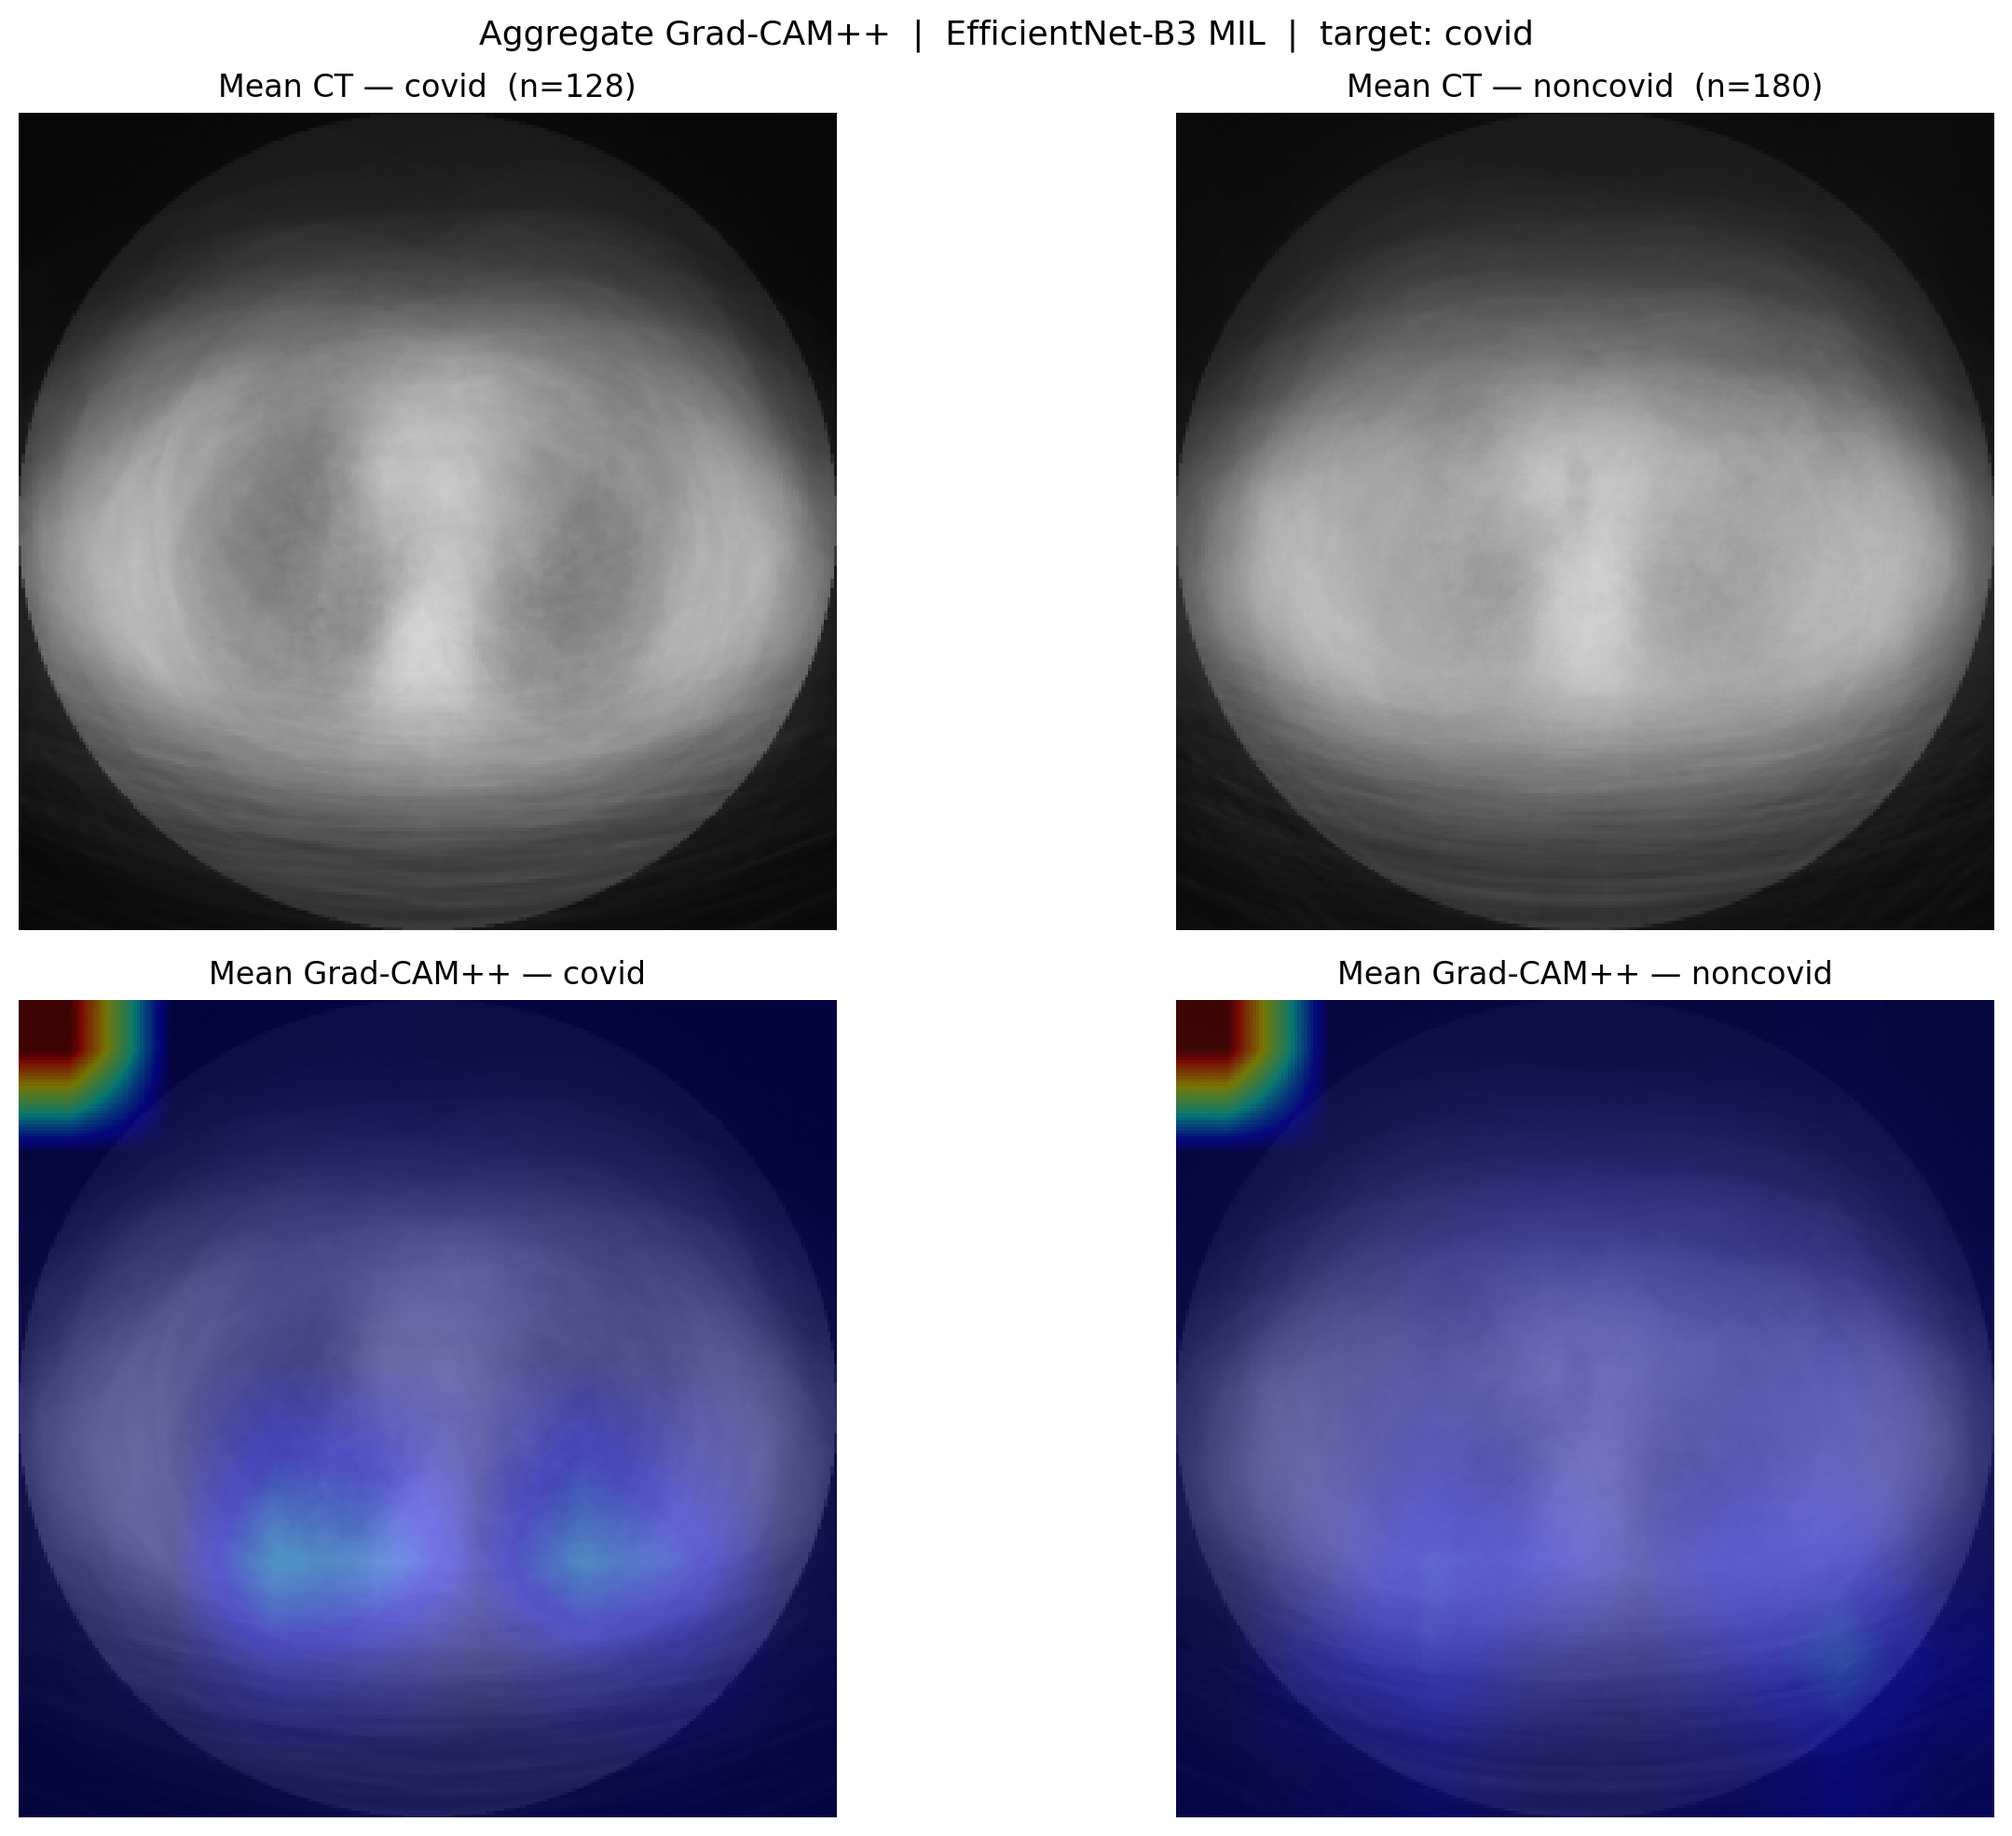
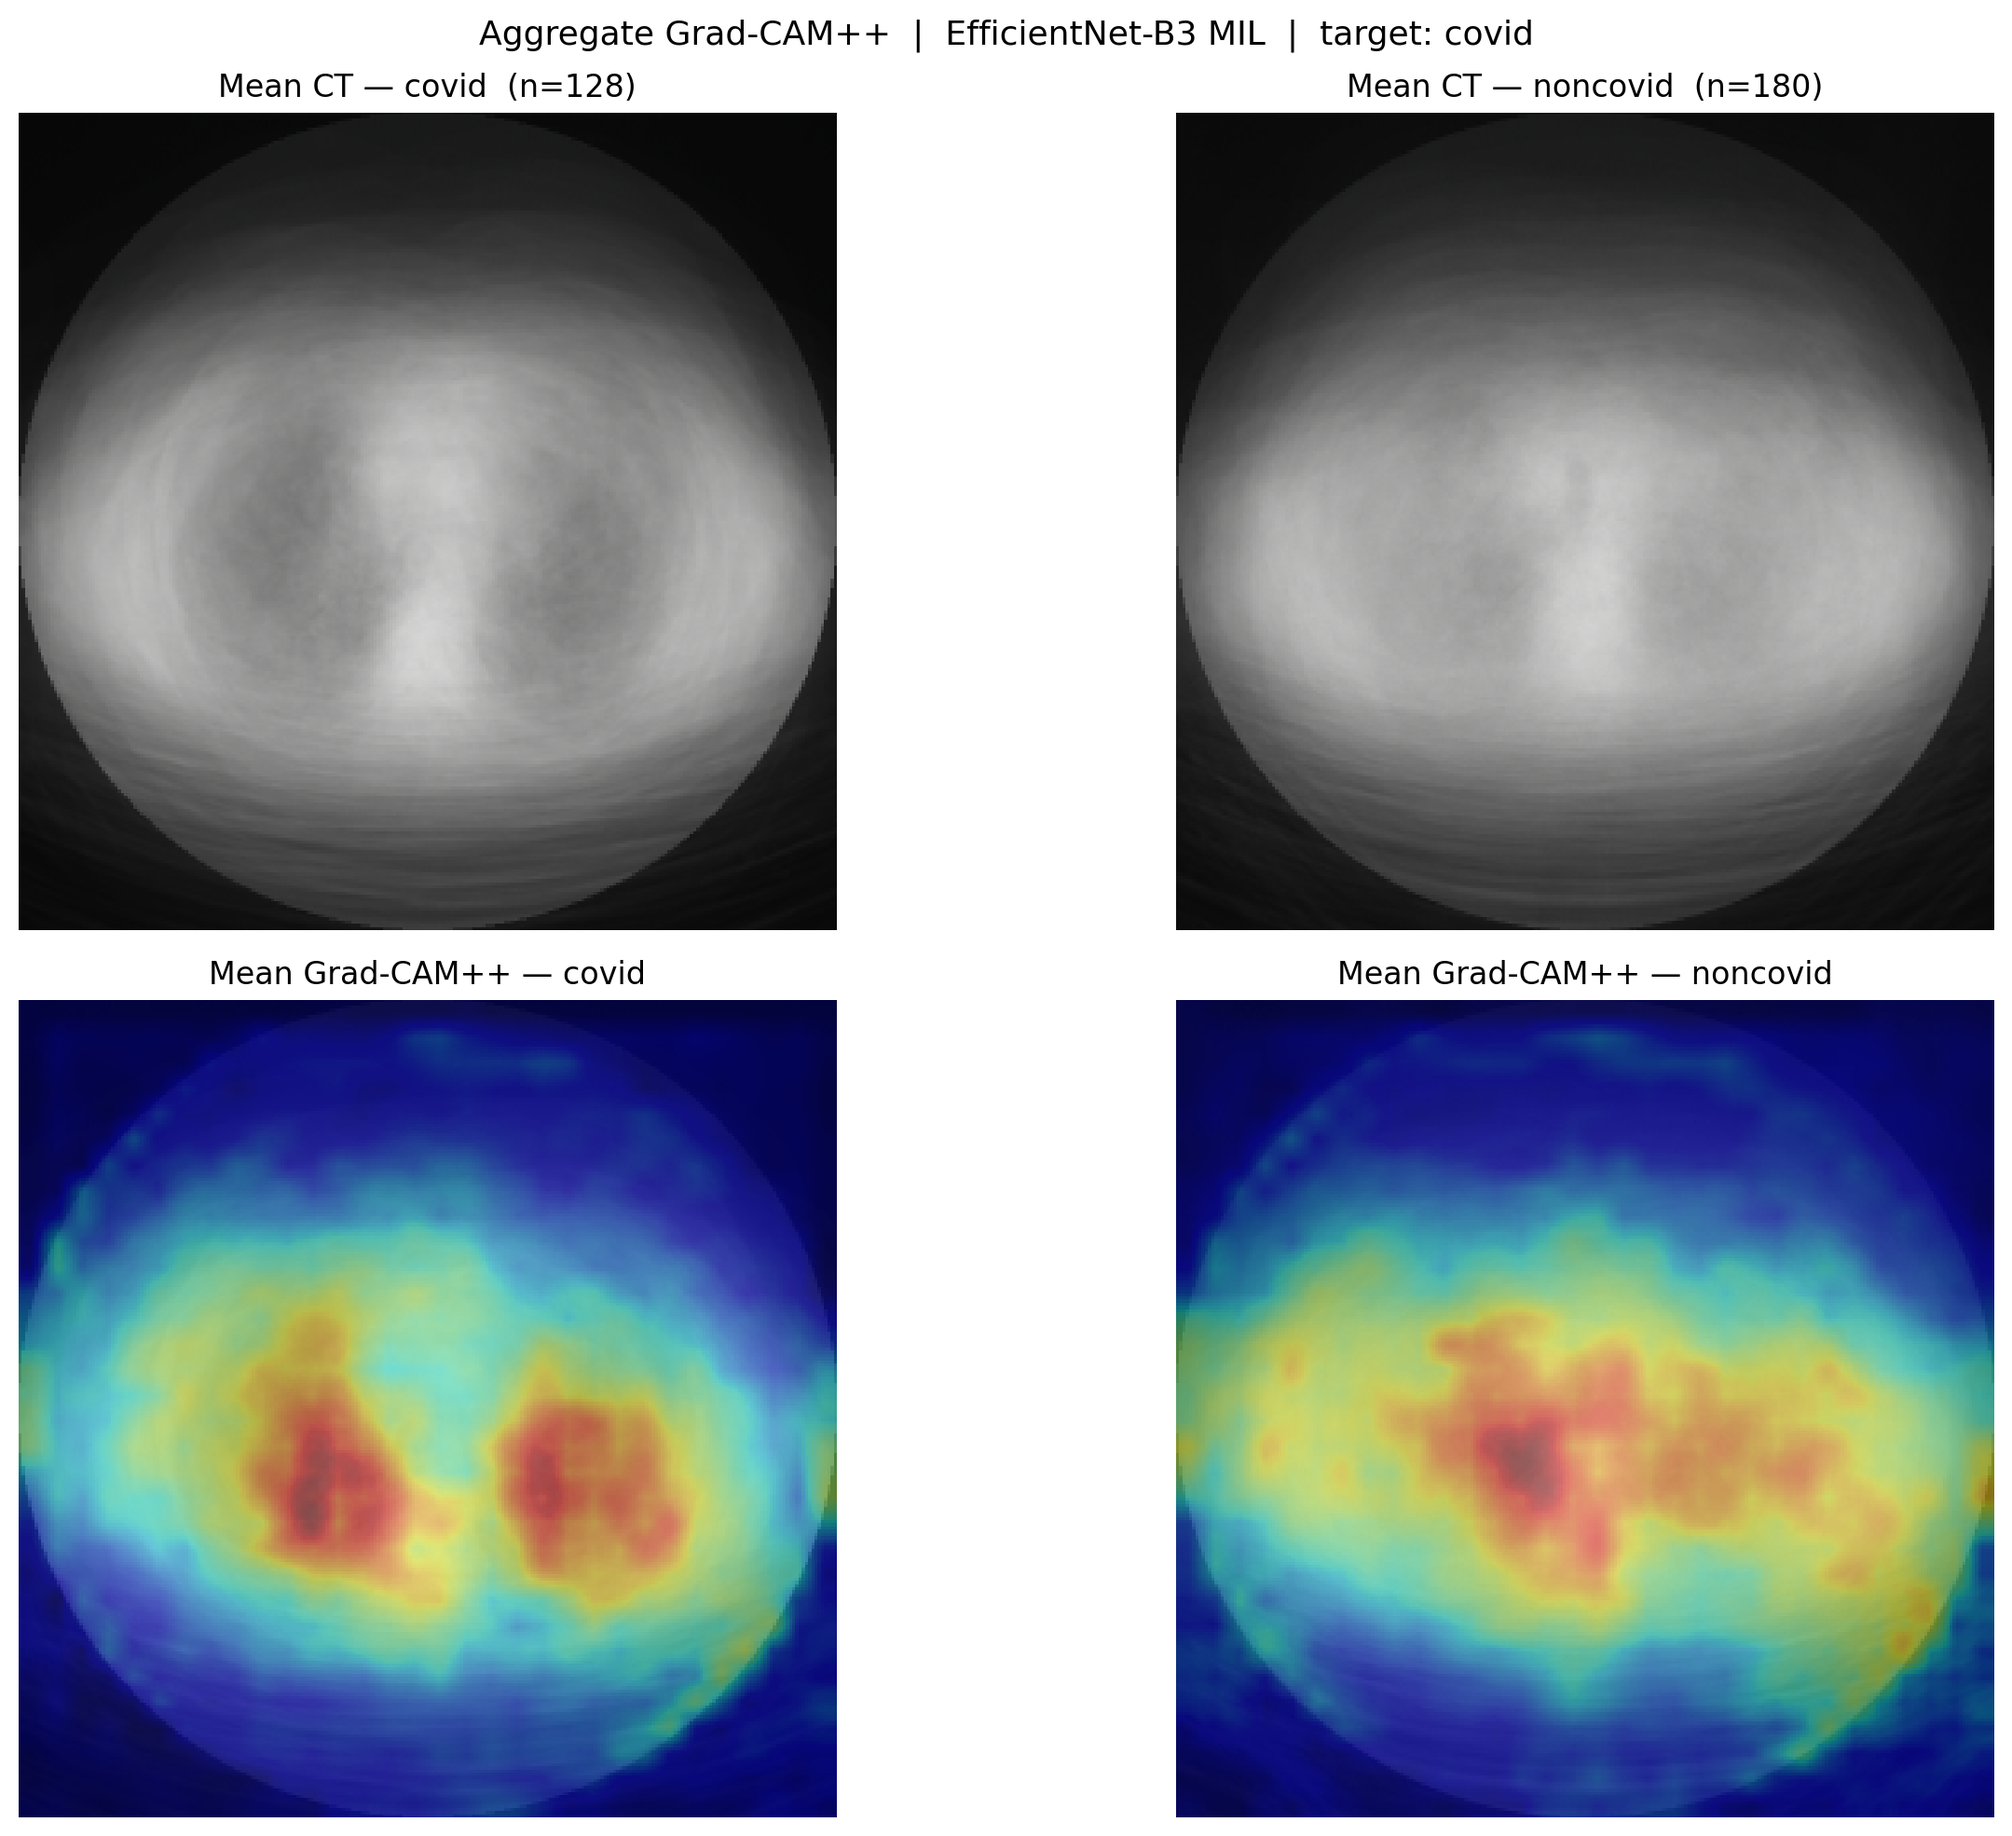
gradcam blur fix

diff --git a/src/gradcam_pp.py b/src/gradcam_pp.py
@@ -205,3 +205,67 @@ def mil_gradcam_pp(
     rgb = tensor_to_rgb_uint8(x[0, slice_index])
     overlay = overlay_heatmap_on_rgb(rgb, cam_np)
     return rgb, overlay, logits.detach(), attn.detach(), cam_np
+
+
+def mil_input_gradient(
+    model: torch.nn.Module,
+    x: torch.Tensor,
+    mask: torch.Tensor,
+    *,
+    slice_index: int,
+    target_class: int = 0,
+    device: torch.device,
+) -> Tuple[np.ndarray, np.ndarray, torch.Tensor, torch.Tensor, np.ndarray]:
+    """
+    Input × Gradient saliency at full input resolution (H, W) — no upsampling.
+
+    Computes |d(score)/d(input) × input| for the chosen slice and reduces
+    over the 3 RGB channels by taking the max. Full 300×300 output.
+
+    Args:
+        model: CovidDetector (EfficientNet-B3 MIL)
+        x: (1, K, 3, H, W)
+        mask: (1, K) — 1 = valid slice
+        slice_index: which slice to visualize (use max-attention slice)
+        target_class: 0 = COVID, 1 = non-COVID
+        device: torch device
+
+    Returns:
+        rgb_uint8:    (H, W, 3) denormalized input slice
+        overlay_uint8:(H, W, 3) saliency overlaid on rgb
+        logits:       (1, 2) detached
+        attention:    (1, K) detached
+        sal_np:       (H, W) float32 [0, 1] raw saliency (for aggregation)
+    """
+    from src.models.efficientnet import CovidDetector
+
+    if not isinstance(model, CovidDetector):
+        raise TypeError("model must be CovidDetector (EfficientNet MIL)")
+
+    if hasattr(model.backbone, "set_grad_checkpointing"):
+        model.backbone.set_grad_checkpointing(enable=False)
+
+    model.eval()
+    x = x.to(device).detach().requires_grad_(True)
+    mask = mask.to(device)
+
+    logits, attn = model(x, mask)
+    model.zero_grad(set_to_none=True)
+    score = logits[0, target_class]
+    score.backward()
+
+    # Gradient and input for the target slice
+    grad = x.grad[0, slice_index]       # (3, H, W)
+    inp  = x[0, slice_index].detach()   # (3, H, W)
+
+    # |grad × input|, collapse channels by max → (H, W)
+    saliency = (grad * inp).abs().max(dim=0)[0]
+
+    s_min, s_max = saliency.min(), saliency.max()
+    if s_max > s_min:
+        saliency = (saliency - s_min) / (s_max - s_min + 1e-8)
+
+    sal_np = saliency.detach().cpu().numpy().astype(np.float32)
+    rgb = tensor_to_rgb_uint8(inp)
+    overlay = overlay_heatmap_on_rgb(rgb, sal_np)
+    return rgb, overlay, logits.detach(), attn.detach(), sal_np

diff --git a/scripts/run_gradcam_pp.py b/scripts/run_gradcam_pp.py
@@ -42,7 +42,7 @@ from src.dataset import (  # noqa: E402
     get_val_transforms,
 )
 from src.gradcam_pp import (  # noqa: E402
-    mil_gradcam_pp,
+    mil_input_gradient,
     overlay_heatmap_on_rgb,
     save_side_by_side,
 )
@@ -151,7 +151,7 @@ def run_dataset_mode(args, cfg, model, device) -> None:
         slice_idx = int(attn0[0].argmax().item())
 
         try:
-            rgb, _, _, _, cam_np = mil_gradcam_pp(
+            rgb, _, _, _, cam_np = mil_input_gradient(
                 model, x, mask,
                 slice_index=slice_idx,
                 target_class=target_class,
@@ -261,7 +261,7 @@ def main() -> None:
         slice_idx = int(args.slice_index)
         log_str = f"slice {slice_idx}"
 
-    rgb, overlay, logits, attn, _ = mil_gradcam_pp(
+    rgb, overlay, logits, attn, _ = mil_input_gradient(
         model, x, mask,
         slice_index=slice_idx,
         target_class=target_class,
